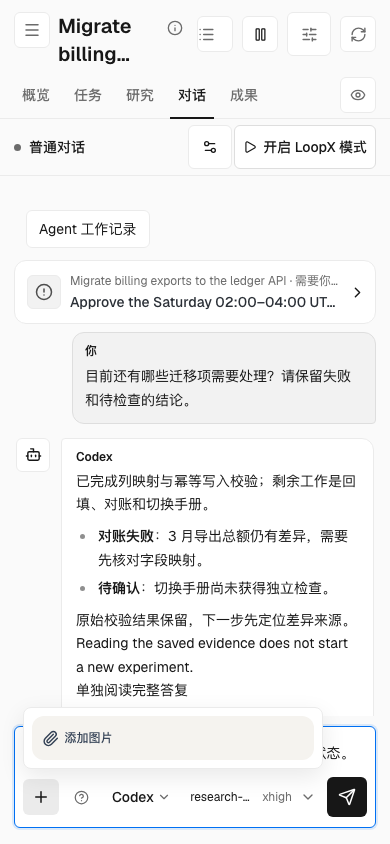
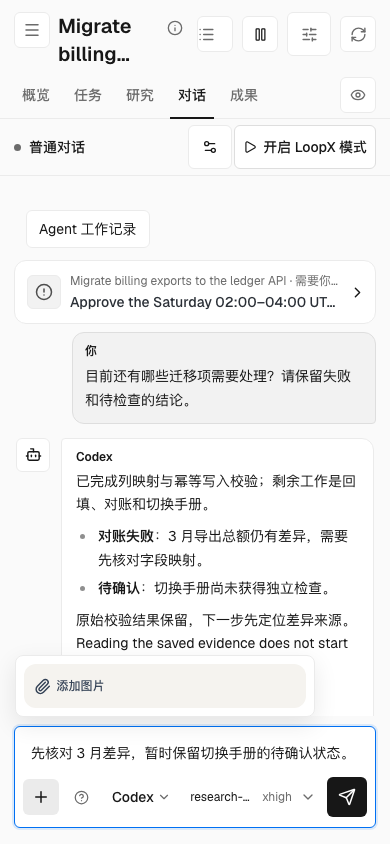
fix(workspace): open composer menus above the full input

Changed region(s): [[0.0615, 0.7701, 0.8308, 0.9242]]

diff --git a/apps/presentation/dashboard/src/features/personal-workspace/personal-workspace.css b/apps/presentation/dashboard/src/features/personal-workspace/personal-workspace.css
@@ -2205,7 +2205,7 @@ button.personal-execution-chip:focus-visible { outline: 2px solid #0070f3; outli
 .personal-composer-runtime .personal-select-value { min-width: 0; }
 .personal-composer-runtime .personal-select-value > span { overflow: hidden; text-overflow: ellipsis; white-space: nowrap; }
 .personal-composer-runtime .personal-select-listbox { top: auto; bottom: calc(100% + 8px); }
-.personal-composer-runtime .personal-chat-model-menu { flex: 0 1 auto; max-width: 260px; }
+.personal-composer-runtime .personal-chat-model-menu { position: static; flex: 0 1 auto; max-width: 260px; }
 .personal-composer-runtime .personal-chat-model-menu > summary { min-height: 36px; padding: 4px 6px; border-color: transparent; background: transparent; }
 .personal-composer-runtime .personal-chat-model-menu > summary > span { display: flex; align-items: baseline; gap: 6px; }
 .personal-composer-runtime .personal-chat-model-menu > summary small { flex: none; }
@@ -2213,6 +2213,7 @@ button.personal-execution-chip:focus-visible { outline: 2px solid #0070f3; outli
 .personal-composer-runtime .personal-chat-model-panel { top: auto; bottom: calc(100% + 12px); }
 .personal-composer-runtime .personal-chat-model-panel .personal-select-listbox { bottom: auto; }
 .personal-composer-actions { position: relative; flex: none; margin: 0; }
+.personal-channel-composer .personal-composer-actions { position: static; }
 .personal-composer-actions > summary { display: grid; place-items: center; width: 36px; height: 36px; min-height: 36px; padding: 0; border-radius: 6px; color: var(--pw-muted); cursor: pointer; list-style: none; }
 .personal-composer-actions > summary::-webkit-details-marker { display: none; }
 .personal-composer-actions > summary:hover, .personal-composer-runtime .personal-select-trigger:hover, .personal-composer-runtime .personal-chat-model-menu > summary:hover { background: var(--pw-line); color: var(--pw-text); }
